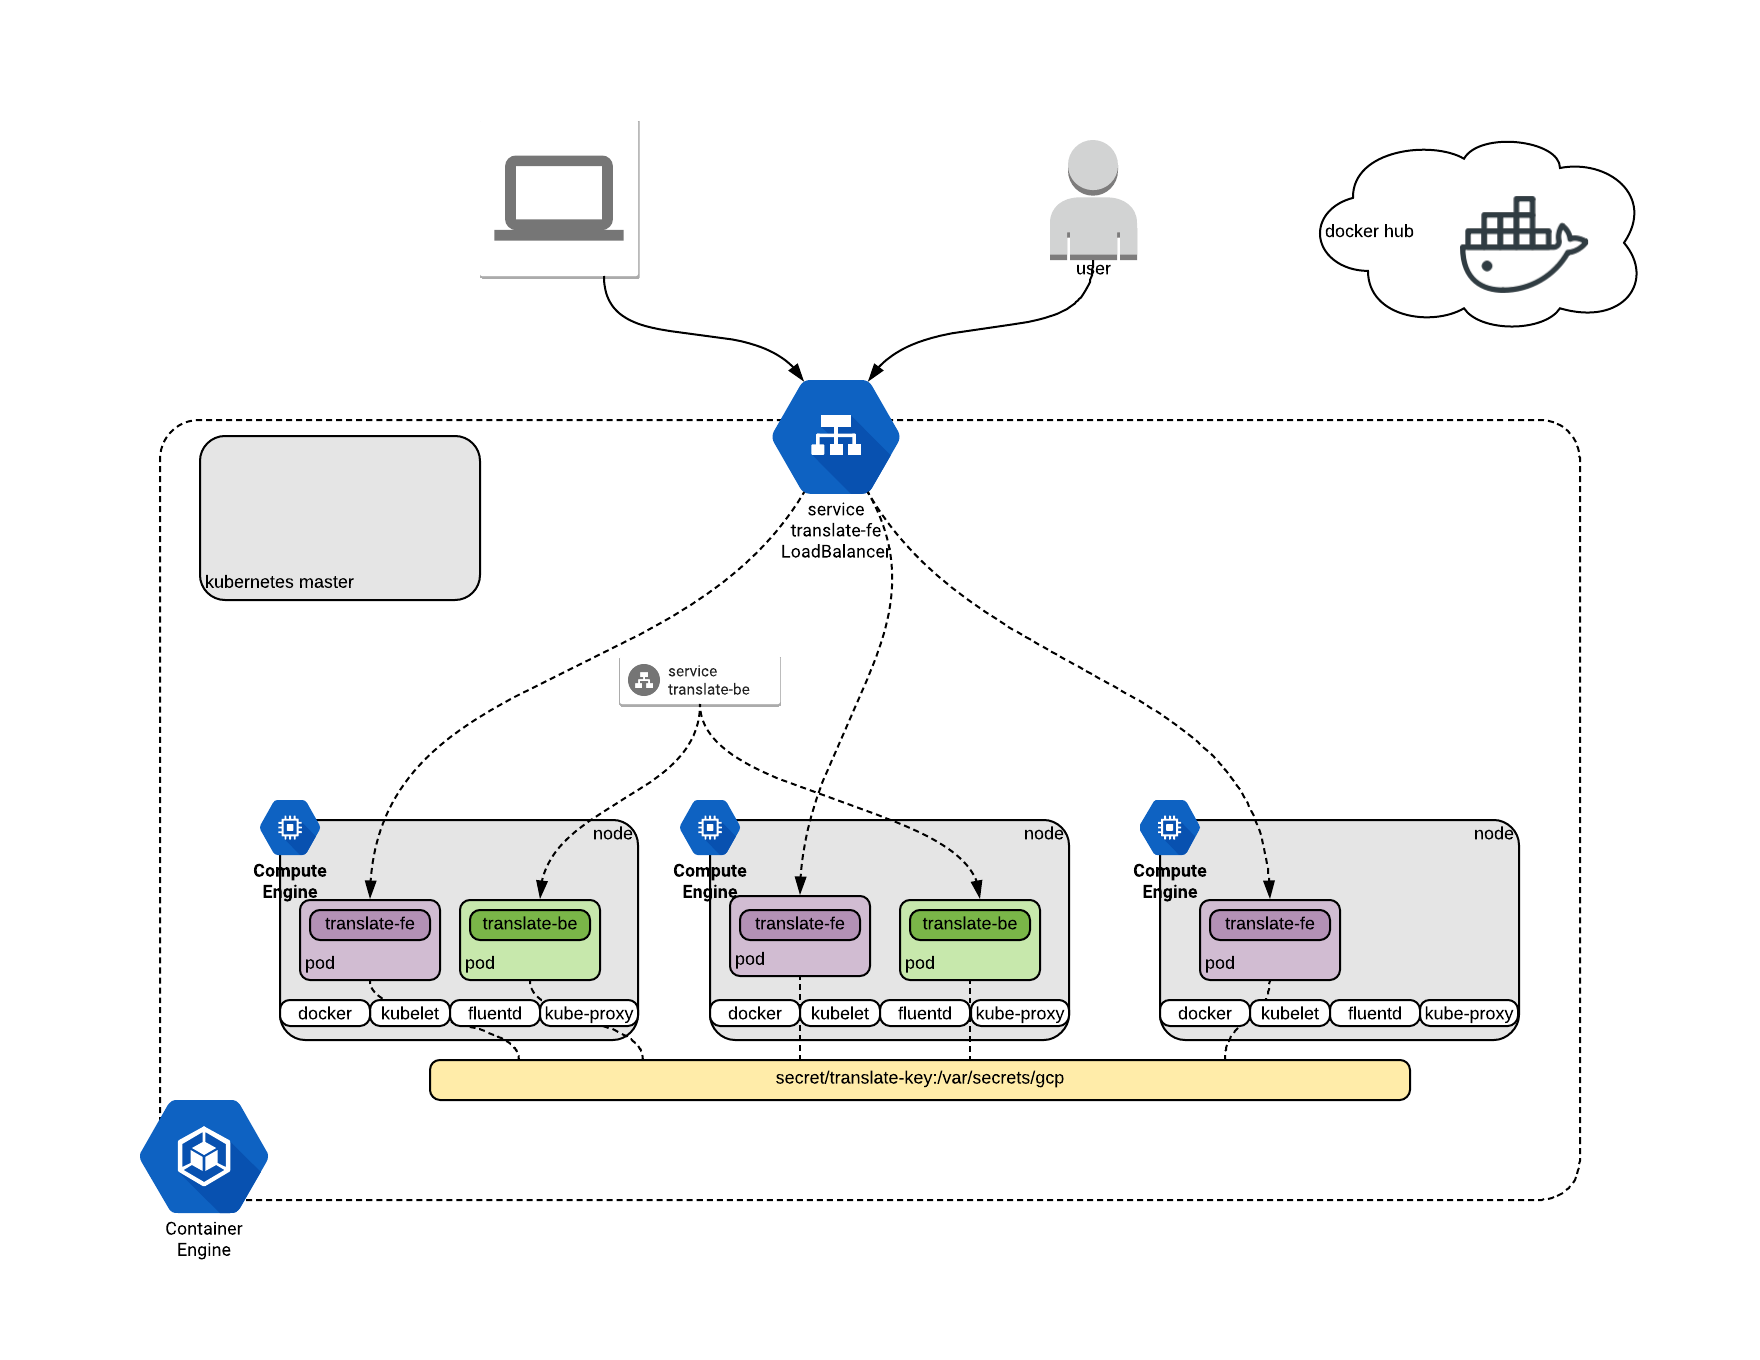
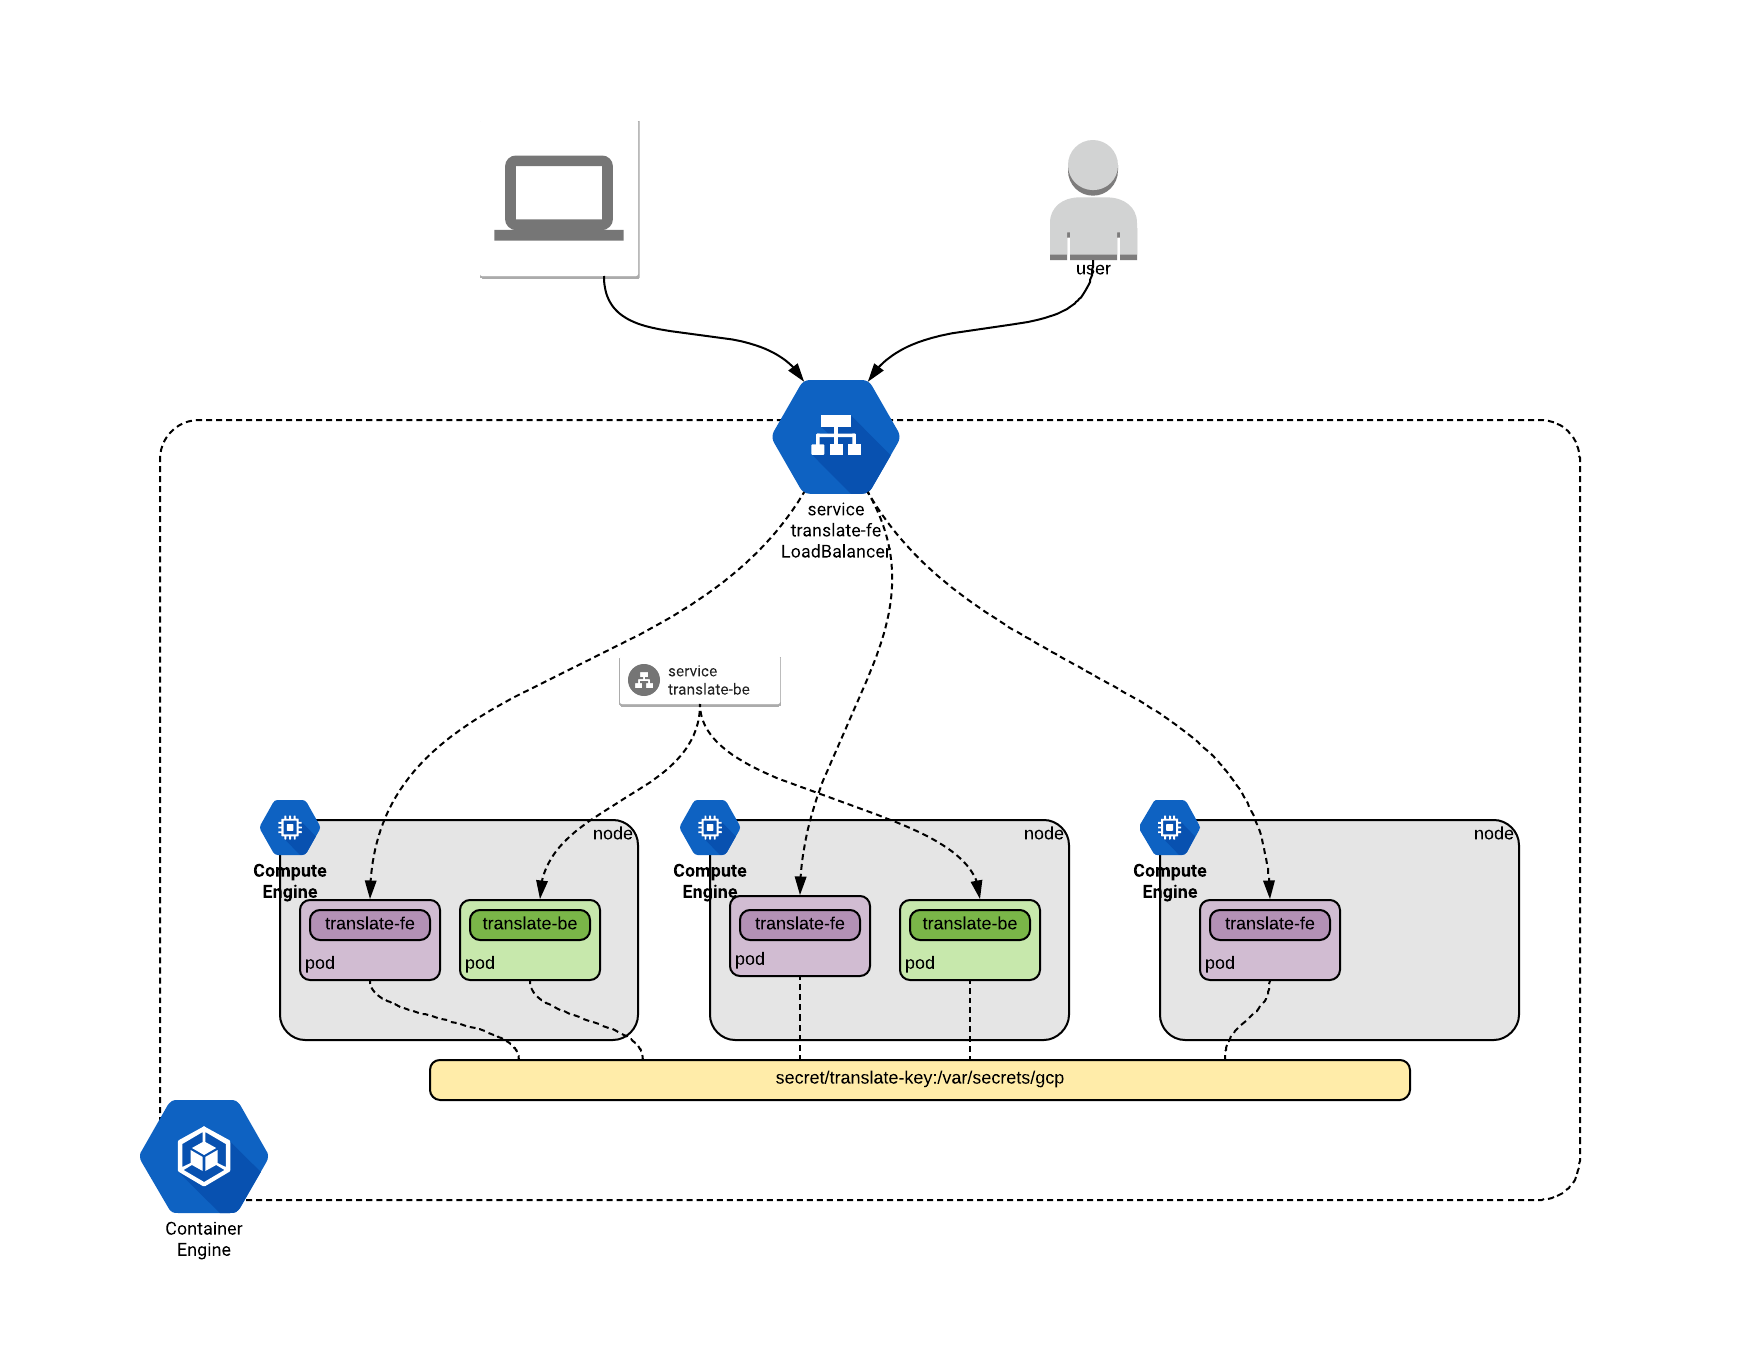
added k8s arch

diff --git a/README.md b/README.md
@@ -22,3 +22,9 @@ I created very simple demo k8s app that is made up of a frontend and a backend s
 [backend translate service](https://github.com/anners/translate-be)
 
 ![translate diagram](/images/k8s-translate-diagram.png)
+
+# kubernetes architecture
+The kubernetes site does a much better job of describing the
+[architecture](https://github.com/kubernetes/community/blob/master/contributors/design-proposals/architecture/architecture.md) than I currently can. I have tried to diagram what I think the architecture of the nodes and control plane (aka master) look like. Again, I am still learning so this might not be completely correct.
+
+![kubernetes architecture](/images/k8s-arch-diagram.png)
